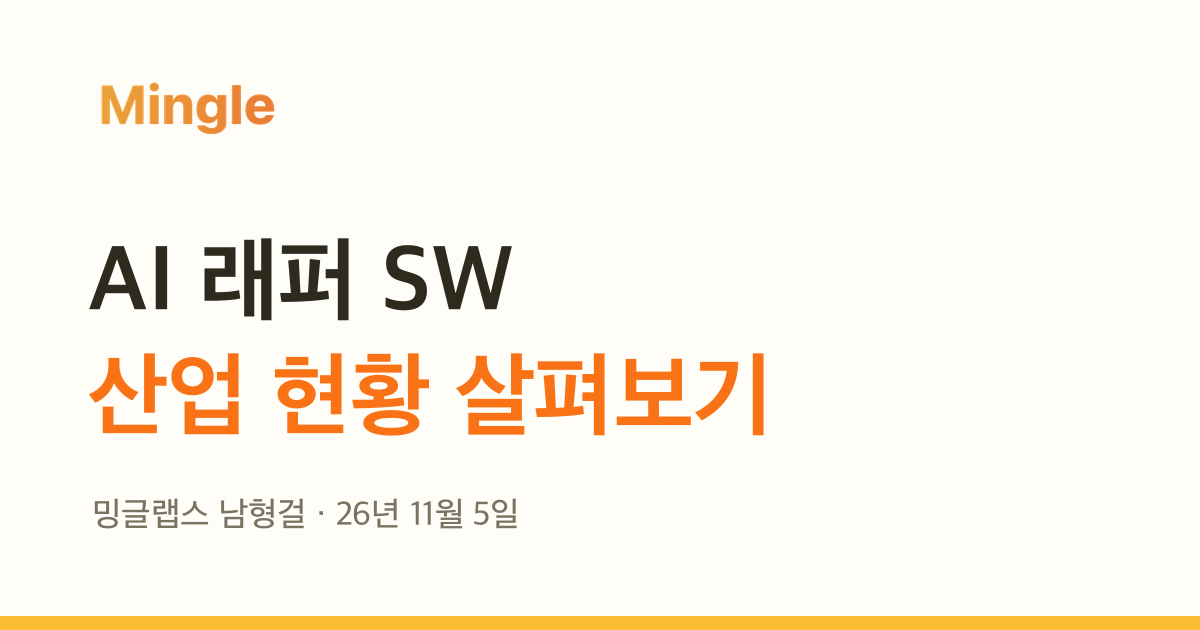
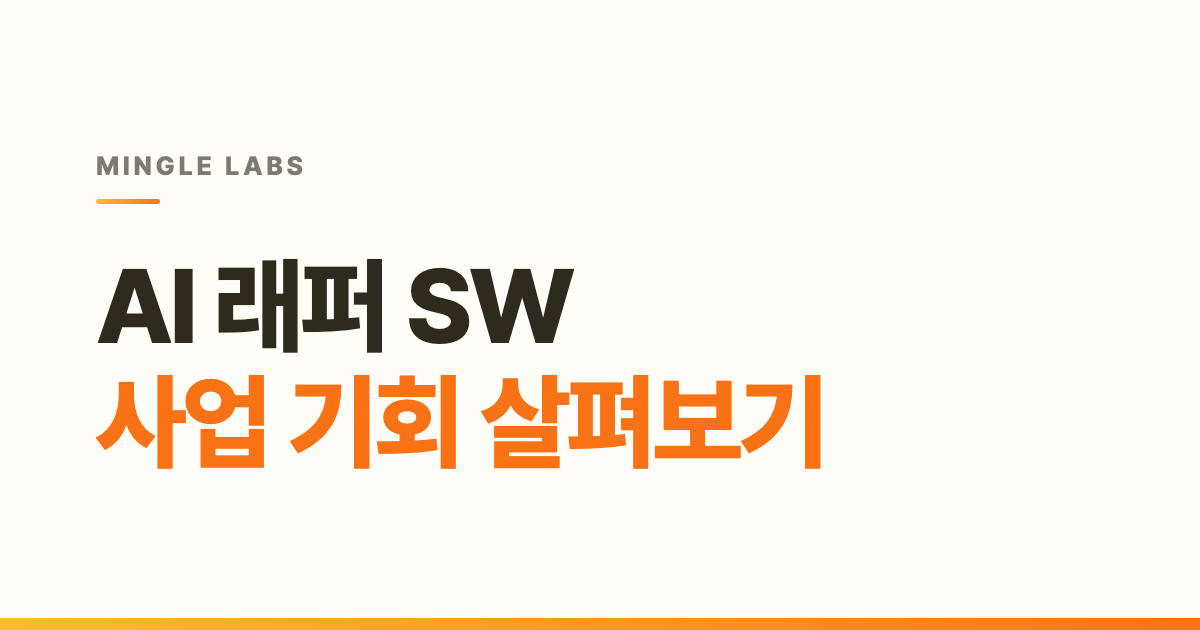
AI Beyond talk: retitle to AI Wrappers: Where the Opportunities Are, simpler OG images
Korean title becomes AI 래퍼 SW 사업 기회 살펴보기. New OG images carry only the brand
and the two-line title; ?v=2 makes link previews pick them up.

diff --git a/mingle-app/public/legal/blogs/ko/ai-wrapper-business.html b/mingle-app/public/legal/blogs/ko/ai-wrapper-business.html
@@ -4,7 +4,7 @@
     <meta charset="utf-8" />
     <meta name="viewport" content="width=device-width, initial-scale=1" />
     <meta name="referrer" content="strict-origin-when-cross-origin" />
-    <title>AI 래퍼 SW 산업 현황 살펴보기 - HashChat Blog</title>
+    <title>AI 래퍼 SW 사업 기회 살펴보기 - HashChat Blog</title>
     <meta name="description" content="AI 래퍼의 사례를 소개하고, 미래 전략을 제안합니다." />
     <link rel="canonical" href="https://translator.minglelabs.app/blogs/ai-wrapper-business?lang=ko" />
     <link rel="alternate" hreflang="en" href="https://translator.minglelabs.app/blogs/ai-wrapper-business" />
@@ -14,17 +14,17 @@
     <meta property="og:locale" content="ko_KR" />
     <meta property="og:type" content="article" />
     <meta property="og:url" content="https://translator.minglelabs.app/blogs/ai-wrapper-business?lang=ko" />
-    <meta property="og:title" content="AI 래퍼 SW 산업 현황 살펴보기 - HashChat Blog" />
+    <meta property="og:title" content="AI 래퍼 SW 사업 기회 살펴보기 - HashChat Blog" />
     <meta property="og:description" content="AI 래퍼의 사례를 소개하고, 미래 전략을 제안합니다." />
-    <meta property="og:image" content="https://translator.minglelabs.app/presentations/assets/ai-beyond-wrapper-og.png" />
+    <meta property="og:image" content="https://translator.minglelabs.app/presentations/assets/ai-beyond-wrapper-og.png?v=2" />
     <meta name="twitter:card" content="summary_large_image" />
-    <meta name="twitter:title" content="AI 래퍼 SW 산업 현황 살펴보기 - HashChat Blog" />
+    <meta name="twitter:title" content="AI 래퍼 SW 사업 기회 살펴보기 - HashChat Blog" />
     <meta name="twitter:description" content="AI 래퍼의 사례를 소개하고, 미래 전략을 제안합니다." />
-    <meta name="twitter:image" content="https://translator.minglelabs.app/presentations/assets/ai-beyond-wrapper-og.png" />
+    <meta name="twitter:image" content="https://translator.minglelabs.app/presentations/assets/ai-beyond-wrapper-og.png?v=2" />
     <link rel="icon" href="/assets/mingle-icon.png" />
     <link rel="stylesheet" href="/assets/blog.css" />
     <link rel="stylesheet" href="/assets/site-header.css" />
-    <script type="application/ld+json">{"@context":"https://schema.org","@type":"PresentationDigitalDocument","name":"AI 래퍼 SW 산업 현황 살펴보기","description":"AI 래퍼의 사례를 소개하고, 미래 전략을 제안합니다.","inLanguage":"ko","datePublished":"2026-11-05","url":"https://translator.minglelabs.app/blogs/ai-wrapper-business?lang=ko","image":"https://translator.minglelabs.app/presentations/assets/ai-beyond-wrapper-og.png","author":{"@type":"Person","name":"남형걸"},"publisher":{"@type":"Organization","name":"Mingle Labs","url":"https://minglelabs.app/"}}</script>
+    <script type="application/ld+json">{"@context":"https://schema.org","@type":"PresentationDigitalDocument","name":"AI 래퍼 SW 사업 기회 살펴보기","description":"AI 래퍼의 사례를 소개하고, 미래 전략을 제안합니다.","inLanguage":"ko","datePublished":"2026-11-05","url":"https://translator.minglelabs.app/blogs/ai-wrapper-business?lang=ko","image":"https://translator.minglelabs.app/presentations/assets/ai-beyond-wrapper-og.png?v=2","author":{"@type":"Person","name":"남형걸"},"publisher":{"@type":"Organization","name":"Mingle Labs","url":"https://minglelabs.app/"}}</script>
   </head>
   <body>
     <header class="site-header">
@@ -58,7 +58,7 @@
         <section class="deck-post-hero">
           <div class="section-inner">
             <p class="eyebrow">발표 · 발표 자료</p>
-            <h1>AI 래퍼 SW 산업 현황 살펴보기</h1>
+            <h1>AI 래퍼 SW 사업 기회 살펴보기</h1>
             <p class="deck-post-meta">밍글랩스 남형걸 · 2026년 11월 5일</p>
             <p class="deck-post-lede">AI 래퍼의 사례를 소개하고, 미래 전략을 제안합니다.</p>
           </div>
@@ -69,7 +69,7 @@
               <iframe
                 id="deck-frame"
                 src="/presentations/ai-beyond-wrapper-business?lang=ko"
-                title="AI 래퍼 SW 산업 현황 살펴보기"
+                title="AI 래퍼 SW 사업 기회 살펴보기"
                 loading="lazy"
                 allow="fullscreen; autoplay; encrypted-media; picture-in-picture"
                 allowfullscreen
@@ -88,7 +88,7 @@
         <section class="deck-post-body">
           <div class="section-inner">
             <p>이미 존재하던 유저 경험을 AI로 자동화하는 AI 래퍼 SW 산업을 살펴본 발표 자료입니다. 바이브 코딩과 에이전트, 캐릭터 챗, 노트테이킹, AI 식단 관리, 애그리게이터, 학습 도우미 등 94장에 걸쳐 어떤 래퍼가 빅테크의 쓰나미를 버텼고 어떤 곳이 쓸려 갔는지 정리했습니다.</p>
-            <p>마지막 장에서는 SW 사업이 가질 수 있는 해자와, AI 래퍼가 래퍼로만 남지 않기 위한 전략을 다룹니다.</p>
+            <p>마지막에는 진입해볼 만한 아이템 다섯 가지와 SW 사업이 가질 수 있는 해자, AI 래퍼가 래퍼로만 남지 않기 위한 전략을 다룹니다.</p>
             <p><a href="/blogs?lang=ko">← 전체 글</a></p>
           </div>
         </section>

diff --git a/mingle-app/public/legal/blogs/en/ai-wrapper-business.html b/mingle-app/public/legal/blogs/en/ai-wrapper-business.html
@@ -4,7 +4,7 @@
     <meta charset="utf-8" />
     <meta name="viewport" content="width=device-width, initial-scale=1" />
     <meta name="referrer" content="strict-origin-when-cross-origin" />
-    <title>The AI Wrapper Business: Where It Stands Today - HashChat Blog</title>
+    <title>AI Wrappers: Where the Opportunities Are - HashChat Blog</title>
     <meta name="description" content="Case studies of AI wrapper businesses, and a strategy for what comes next." />
     <link rel="canonical" href="https://translator.minglelabs.app/blogs/ai-wrapper-business" />
     <link rel="alternate" hreflang="en" href="https://translator.minglelabs.app/blogs/ai-wrapper-business" />
@@ -14,17 +14,17 @@
     <meta property="og:locale" content="en_US" />
     <meta property="og:type" content="article" />
     <meta property="og:url" content="https://translator.minglelabs.app/blogs/ai-wrapper-business" />
-    <meta property="og:title" content="The AI Wrapper Business: Where It Stands Today - HashChat Blog" />
+    <meta property="og:title" content="AI Wrappers: Where the Opportunities Are - HashChat Blog" />
     <meta property="og:description" content="Case studies of AI wrapper businesses, and a strategy for what comes next." />
-    <meta property="og:image" content="https://translator.minglelabs.app/presentations/assets/ai-beyond-wrapper-og-en.png" />
+    <meta property="og:image" content="https://translator.minglelabs.app/presentations/assets/ai-beyond-wrapper-og-en.png?v=2" />
     <meta name="twitter:card" content="summary_large_image" />
-    <meta name="twitter:title" content="The AI Wrapper Business: Where It Stands Today - HashChat Blog" />
+    <meta name="twitter:title" content="AI Wrappers: Where the Opportunities Are - HashChat Blog" />
     <meta name="twitter:description" content="Case studies of AI wrapper businesses, and a strategy for what comes next." />
-    <meta name="twitter:image" content="https://translator.minglelabs.app/presentations/assets/ai-beyond-wrapper-og-en.png" />
+    <meta name="twitter:image" content="https://translator.minglelabs.app/presentations/assets/ai-beyond-wrapper-og-en.png?v=2" />
     <link rel="icon" href="/assets/mingle-icon.png" />
     <link rel="stylesheet" href="/assets/blog.css" />
     <link rel="stylesheet" href="/assets/site-header.css" />
-    <script type="application/ld+json">{"@context":"https://schema.org","@type":"PresentationDigitalDocument","name":"The AI Wrapper Business: Where It Stands Today","description":"Case studies of AI wrapper businesses, and a strategy for what comes next.","inLanguage":"en","datePublished":"2026-11-05","url":"https://translator.minglelabs.app/blogs/ai-wrapper-business","image":"https://translator.minglelabs.app/presentations/assets/ai-beyond-wrapper-og-en.png","author":{"@type":"Person","name":"Hyeongkeol Nam"},"publisher":{"@type":"Organization","name":"Mingle Labs","url":"https://minglelabs.app/"}}</script>
+    <script type="application/ld+json">{"@context":"https://schema.org","@type":"PresentationDigitalDocument","name":"AI Wrappers: Where the Opportunities Are","description":"Case studies of AI wrapper businesses, and a strategy for what comes next.","inLanguage":"en","datePublished":"2026-11-05","url":"https://translator.minglelabs.app/blogs/ai-wrapper-business","image":"https://translator.minglelabs.app/presentations/assets/ai-beyond-wrapper-og-en.png?v=2","author":{"@type":"Person","name":"Hyeongkeol Nam"},"publisher":{"@type":"Organization","name":"Mingle Labs","url":"https://minglelabs.app/"}}</script>
   </head>
   <body>
     <header class="site-header">
@@ -58,7 +58,7 @@
         <section class="deck-post-hero">
           <div class="section-inner">
             <p class="eyebrow">Talk · Slides</p>
-            <h1>The AI Wrapper Business: Where It Stands Today</h1>
+            <h1>AI Wrappers: Where the Opportunities Are</h1>
             <p class="deck-post-meta">Hyeongkeol Nam, Mingle Labs · November 5, 2026</p>
             <p class="deck-post-lede">Case studies of AI wrapper businesses, and a strategy for what comes next.</p>
           </div>
@@ -69,7 +69,7 @@
               <iframe
                 id="deck-frame"
                 src="/presentations/ai-beyond-wrapper-business"
-                title="The AI Wrapper Business: Where It Stands Today"
+                title="AI Wrappers: Where the Opportunities Are"
                 loading="lazy"
                 allow="fullscreen; autoplay; encrypted-media; picture-in-picture"
                 allowfullscreen
@@ -88,7 +88,7 @@
         <section class="deck-post-body">
           <div class="section-inner">
             <p>Slides from a talk on AI wrapper software: products that take a user experience that already existed and automate it with AI. The 94 slides walk through vibe coding and agents, character chat, note-taking, AI diet tracking, aggregators, study helpers and more, asking which wrappers held up against Big Tech and which were swept away.</p>
-            <p>The last part looks at the moats a software business can build and how a wrapper can avoid staying just a wrapper.</p>
+            <p>The last part picks the opportunities worth pursuing: five ideas, the moats a software business can build, and how a wrapper avoids staying just a wrapper.</p>
             <p><a href="/blogs">← All posts</a></p>
           </div>
         </section>

diff --git a/mingle-app/public/legal/presentations/ai-beyond-wrapper-business.html b/mingle-app/public/legal/presentations/ai-beyond-wrapper-business.html
@@ -16,19 +16,19 @@
 <meta content="https://minglelabs.github.io/surfers/presentation/ai-beyond-wrapper-business.html" property="og:url"/>
 <meta content="Mingle Labs" property="og:site_name"/>
 <meta content="en_US" property="og:locale"/>
-<meta content="The AI Wrapper Business: Where It Stands Today" property="og:title"/>
+<meta content="AI Wrappers: Where the Opportunities Are" property="og:title"/>
 <meta content="Case studies of AI wrapper businesses, and a strategy for what comes next." property="og:description"/>
-<meta content="https://minglelabs.github.io/surfers/presentation/assets/ai-beyond-wrapper-og-en.png" property="og:image"/>
+<meta content="https://minglelabs.github.io/surfers/presentation/assets/ai-beyond-wrapper-og-en.png?v=2" property="og:image"/>
 <meta content="Mingle Labs logo and talk title" property="og:image:alt"/>
 <meta content="image/png" property="og:image:type"/>
 <meta content="1200" property="og:image:width"/>
 <meta content="630" property="og:image:height"/>
 <meta content="summary_large_image" name="twitter:card"/>
-<meta content="The AI Wrapper Business: Where It Stands Today" name="twitter:title"/>
+<meta content="AI Wrappers: Where the Opportunities Are" name="twitter:title"/>
 <meta content="Case studies of AI wrapper businesses, and a strategy for what comes next." name="twitter:description"/>
-<meta content="https://minglelabs.github.io/surfers/presentation/assets/ai-beyond-wrapper-og-en.png" name="twitter:image"/>
+<meta content="https://minglelabs.github.io/surfers/presentation/assets/ai-beyond-wrapper-og-en.png?v=2" name="twitter:image"/>
 <meta content="Mingle Labs logo and talk title" name="twitter:image:alt"/>
-<title>The AI Wrapper Business — Mingle Labs</title>
+<title>AI Wrappers: Where the Opportunities Are — Mingle Labs</title>
 <link href="assets/mingle-favicon.png" rel="icon" type="image/png"/>
 <link href="assets/mingle-apple-touch-icon.png" rel="apple-touch-icon"/>
 <style>
@@ -7203,14 +7203,14 @@
 </head>
 <body>
 
-<main aria-label="The AI Wrapper Business: Where It Stands Today" class="deck" data-ko-aria-label="AI 래퍼 SW 산업 현황 살펴보기">
+<main aria-label="AI Wrappers: Where the Opportunities Are" class="deck" data-ko-aria-label="AI 래퍼 SW 사업 기회 살펴보기">
 <div aria-hidden="true" class="progress"><div class="progress-fill" id="progress-fill"></div></div>
 <div class="track" id="deck-track">
 <section aria-label="Cover" class="slide is-active" data-ko-aria-label="표지" data-slide="표지">
 <article class="slide-shell slide-shell--center">
 <div class="brand"><span aria-hidden="true" class="brand-mark"></span><span>AI Beyond 2026</span></div>
 <div class="copy copy--center">
-<h1 class="title title--hero title--center" data-ko='AI 래퍼 SW&lt;br/&gt;&lt;span class="title-accent"&gt;산업 현황 살펴보기&lt;/span&gt;'>The AI Wrapper Business<br/><span class="title-accent">Where It Stands Today</span></h1>
+<h1 class="title title--hero title--center" data-ko='AI 래퍼 SW&lt;br/&gt;&lt;span class="title-accent"&gt;사업 기회 살펴보기&lt;/span&gt;'>AI Wrappers<br/><span class="title-accent">Where the Opportunities Are</span></h1>
 <div class="hero-meta" data-ko="&lt;span&gt;밍글랩스 남형걸&lt;/span&gt;&lt;span&gt;26년 11월 5일&lt;/span&gt;"><span>Hyeongkeol Nam, Mingle Labs</span><span>Nov 5, 2026</span></div>
 </div>
 </article>
@@ -9165,7 +9165,7 @@
         ["alt", "aria-label", "title"].forEach((name) => {
           document.querySelectorAll(`[data-ko-${name}]`).forEach((el) => { el.setAttribute(name, el.getAttribute(`data-ko-${name}`)); });
         });
-        document.title = "AI 래퍼 SW 산업 현황 살펴보기 — 밍글랩스";
+        document.title = "AI 래퍼 SW 사업 기회 살펴보기 — 밍글랩스";
       })();
     </script>
     <script>

diff --git a/mingle-app/public/legal/blogs/en/index.html b/mingle-app/public/legal/blogs/en/index.html
@@ -70,11 +70,11 @@
           <div class="post-list">
             <a class="post-card" href="/blogs/ai-wrapper-business">
               <div class="post-visual post-visual--cover" aria-hidden="true">
-                <img src="/presentations/assets/ai-beyond-wrapper-og-en.png" alt="" loading="lazy" />
+                <img src="/presentations/assets/ai-beyond-wrapper-og-en.png?v=2" alt="" loading="lazy" />
               </div>
               <div class="post-copy">
                 <p class="post-meta">Talk - November 5, 2026</p>
-                <h3>The AI Wrapper Business: Where It Stands Today</h3>
+                <h3>AI Wrappers: Where the Opportunities Are</h3>
                 <p>Case studies of AI wrapper businesses, and a strategy for what comes next.</p>
                 <span class="post-link">View the slides</span>
               </div>

diff --git a/mingle-app/public/legal/blogs/ko/index.html b/mingle-app/public/legal/blogs/ko/index.html
@@ -70,11 +70,11 @@
           <div class="post-list">
             <a class="post-card" href="/blogs/ai-wrapper-business?lang=ko">
               <div class="post-visual post-visual--cover" aria-hidden="true">
-                <img src="/presentations/assets/ai-beyond-wrapper-og.png" alt="" loading="lazy" />
+                <img src="/presentations/assets/ai-beyond-wrapper-og.png?v=2" alt="" loading="lazy" />
               </div>
               <div class="post-copy">
                 <p class="post-meta">발표 - 2026년 11월 5일</p>
-                <h3>AI 래퍼 SW 산업 현황 살펴보기</h3>
+                <h3>AI 래퍼 SW 사업 기회 살펴보기</h3>
                 <p>AI 래퍼의 사례를 소개하고, 미래 전략을 제안합니다.</p>
                 <span class="post-link">슬라이드 보기</span>
               </div>
